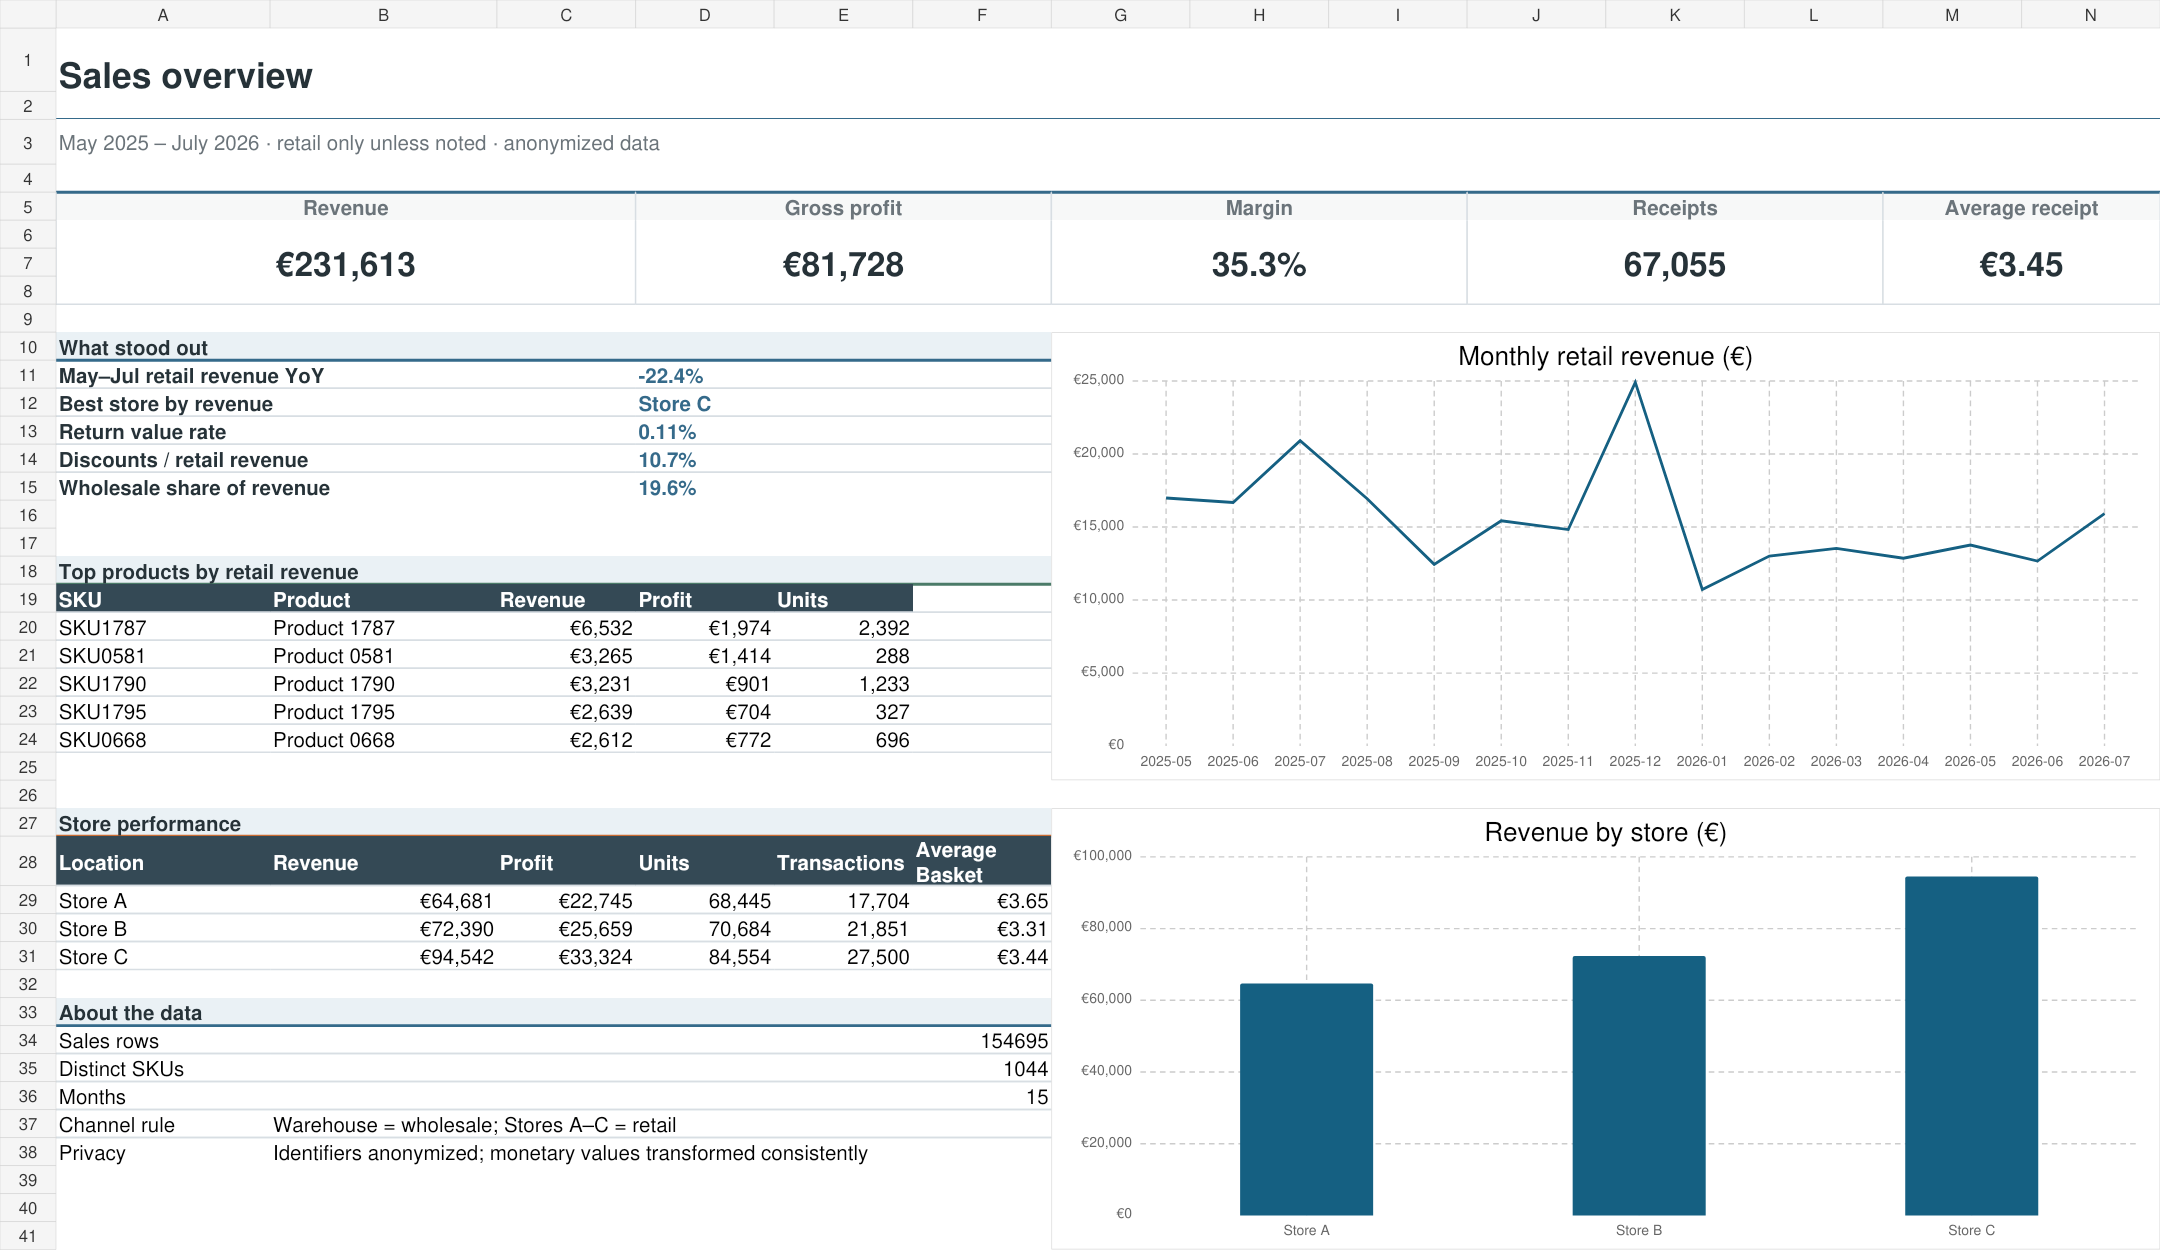
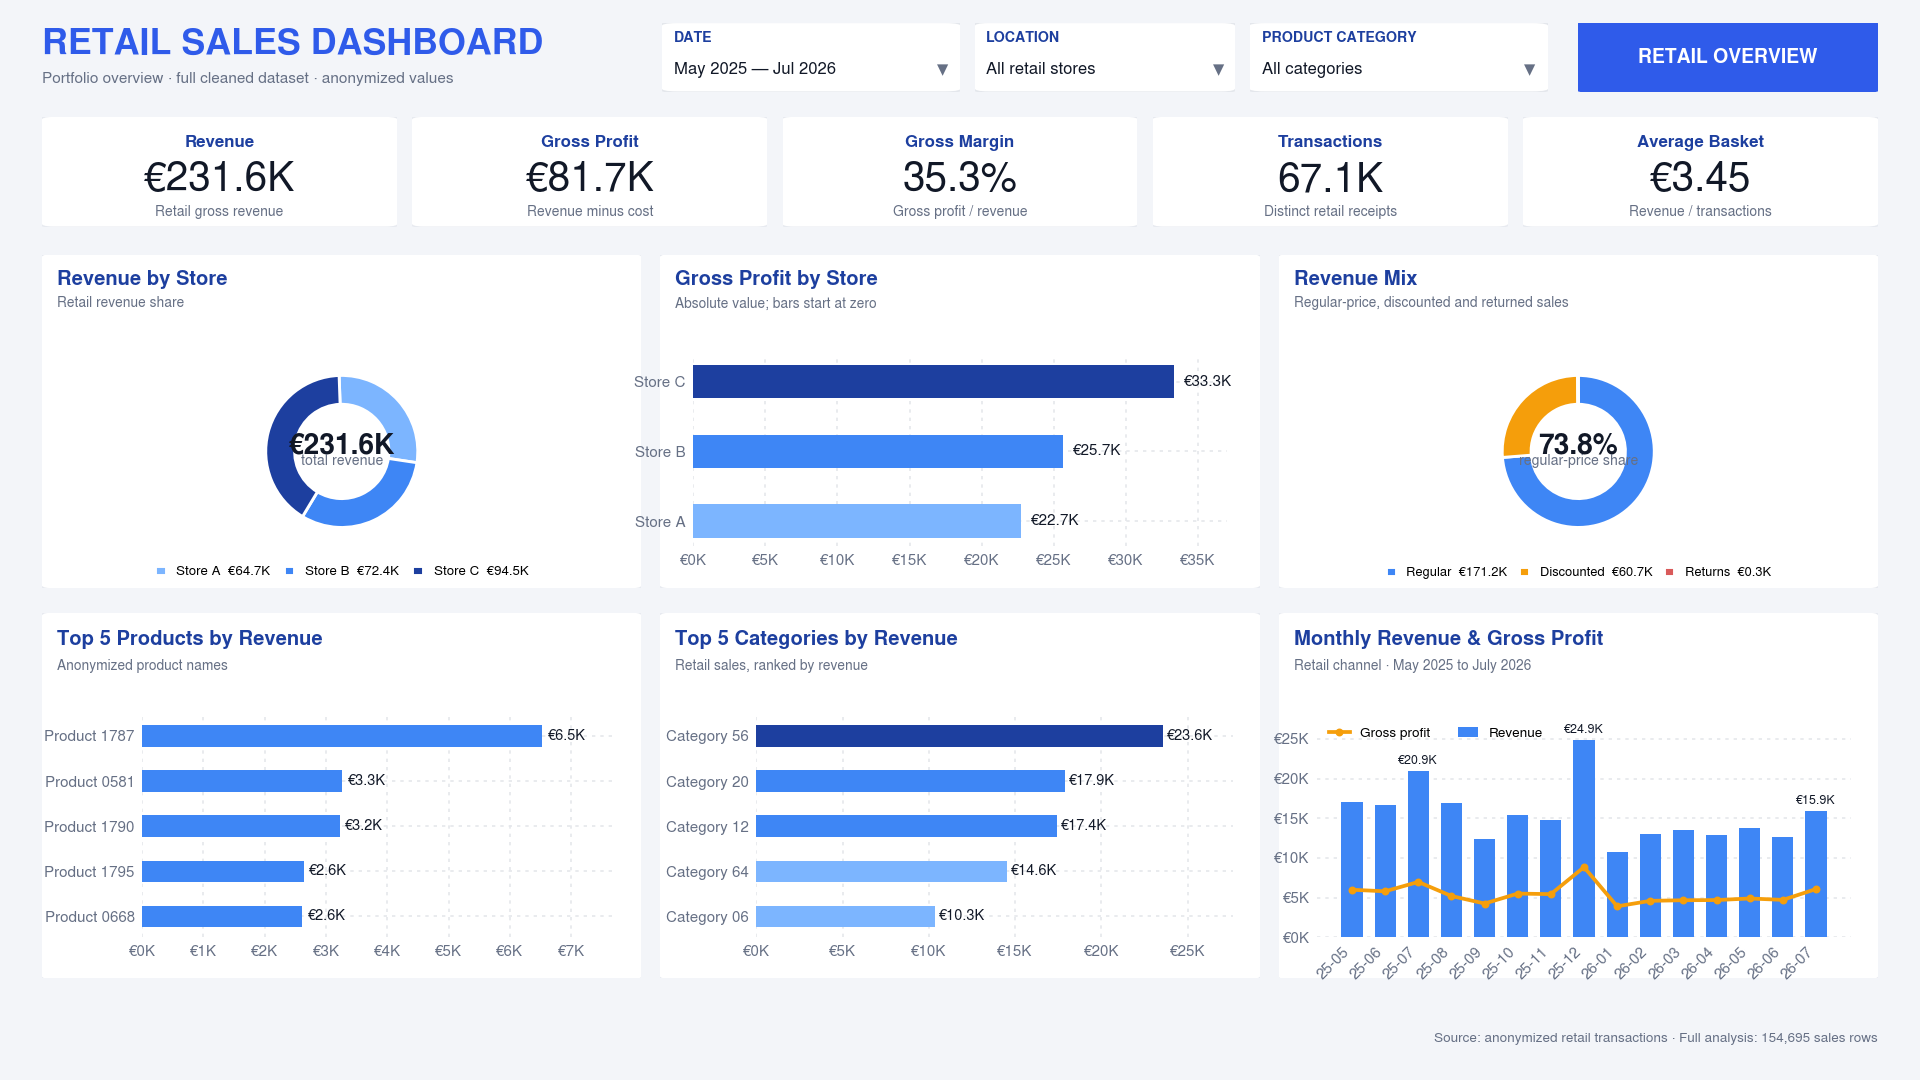
Redesign Power BI dashboard

diff --git a/power-bi-sales-dashboard/powerbi/build-guide.md b/power-bi-sales-dashboard/powerbi/build-guide.md
@@ -1,13 +1,25 @@
 # Page checklist
 
+## Visual style
+
+- Canvas: 16:9, light grey page background (`#F3F5F9`)
+- Cards and visual containers: white, subtle light-grey border, no shadow
+- Primary accent: cobalt blue (`#2F5BEA`); dark blue (`#1D3F9F`) for titles
+- Comparison accent: amber (`#F59E0B`) for gross profit; muted red only for returns
+- Font: Segoe UI; titles 12–14 pt, KPI values 26–32 pt
+- Keep the filter row at the top, KPI cards below it and six aligned visuals underneath
+- Import `theme.json` before formatting the page
+
 ## 1. Retail overview
 
 - Page filter: channel = Retail
 - KPI cards: Revenue, Gross Profit, Gross Margin %, Transactions, Average Basket
-- Line chart: year-month vs Revenue
-- Column chart: location vs Revenue
-- Matrix: location with Revenue, Gross Profit, Margin %, Transactions, Average Basket
-- Slicers: date, location, category
+- Donut chart: Revenue by Store
+- Bar chart: Gross Profit by Store
+- Donut chart: regular-price, discounted and returned revenue
+- Bar charts: Top 5 Products and Top 5 Categories by Revenue
+- Combo chart: year-month with Revenue columns and Gross Profit line
+- Slicers: date, location, category; add a blue Retail Overview navigation button
 
 ## 2. Products
 

diff --git a/power-bi-sales-dashboard/README.md b/power-bi-sales-dashboard/README.md
@@ -13,6 +13,7 @@ This folder contains the data model and measures I prepared for the Power BI ver
 - `powerbi/measures.dax`
 - `powerbi/model.md`
 - `powerbi/build-guide.md`
+- `powerbi/theme.json`
 
 ## Setup
 
@@ -21,7 +22,8 @@ This folder contains the data model and measures I prepared for the Power BI ver
 3. Create the relationships shown in `powerbi/model.md`.
 4. Mark `Dim Date[date]` as the date table.
 5. Add the measures from `powerbi/measures.dax`.
-6. Use `powerbi/build-guide.md` as a page checklist.
+6. Import `powerbi/theme.json` from **View → Themes → Browse for themes**.
+7. Use `powerbi/build-guide.md` as a page checklist.
 
 I use Retail as the default filter and keep Wholesale on a separate page. The warehouse has only a small number of large invoices, so combining the two channels would make the retail average receipt almost meaningless.
 
